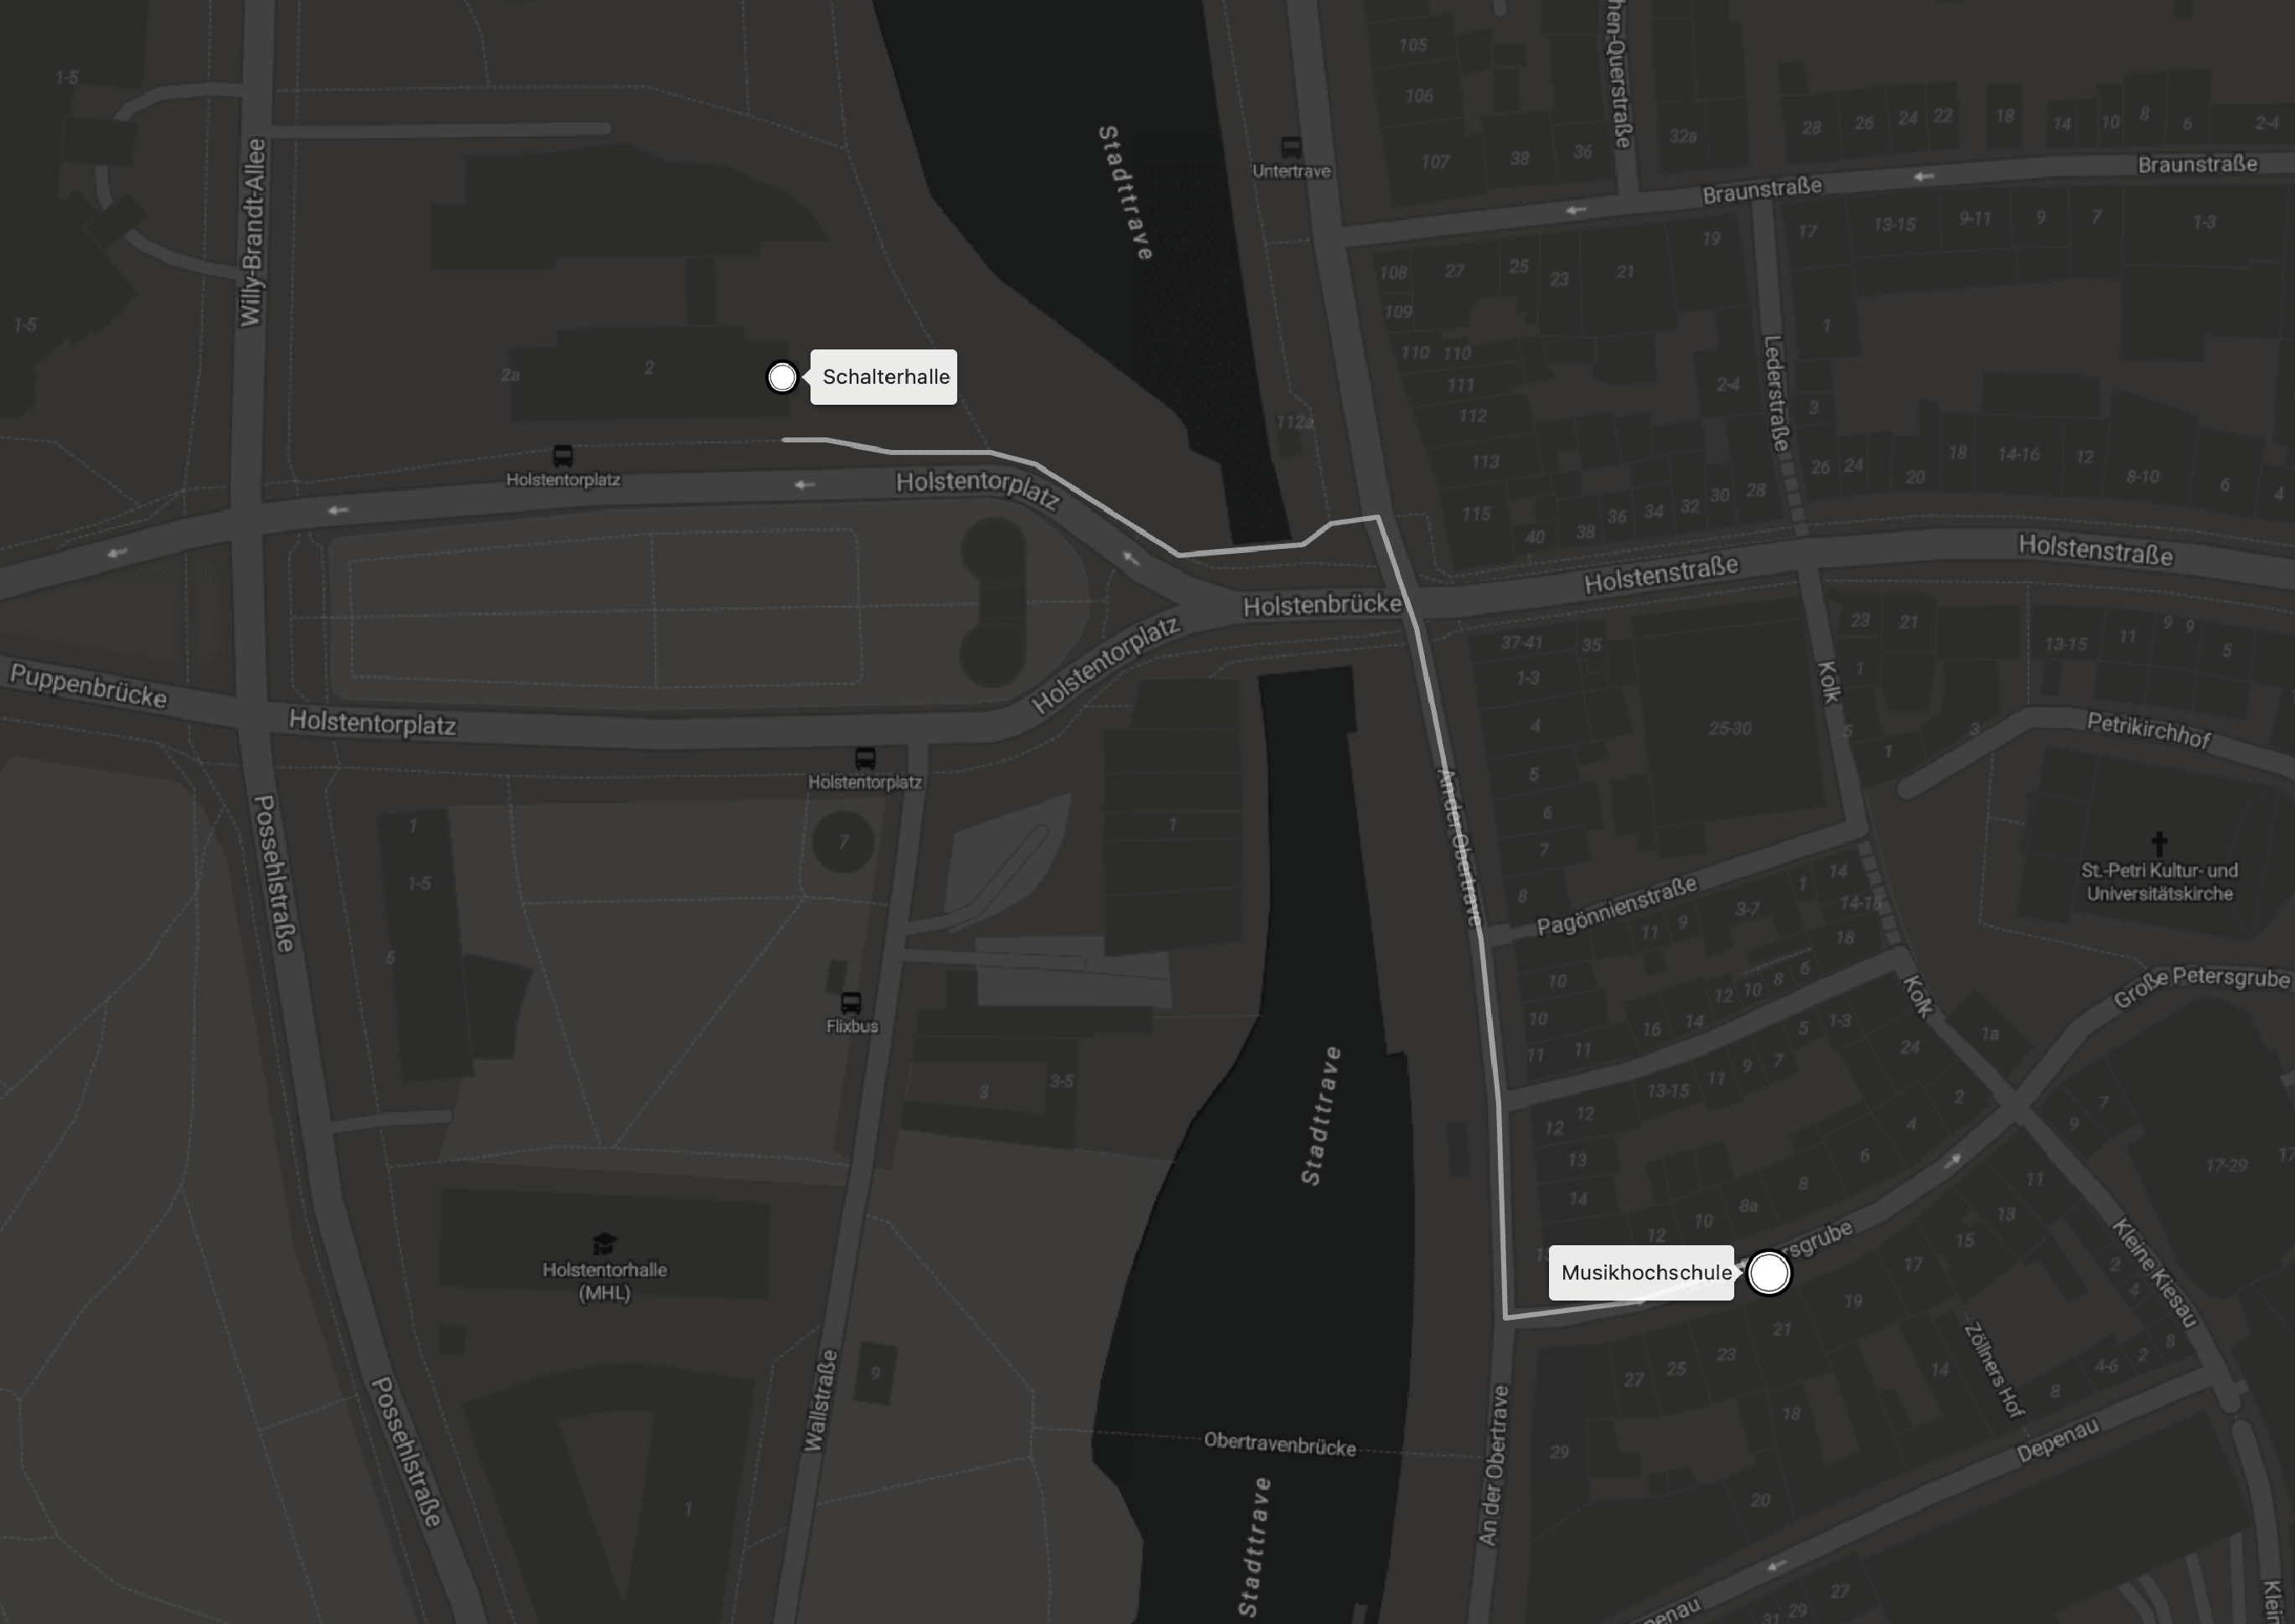
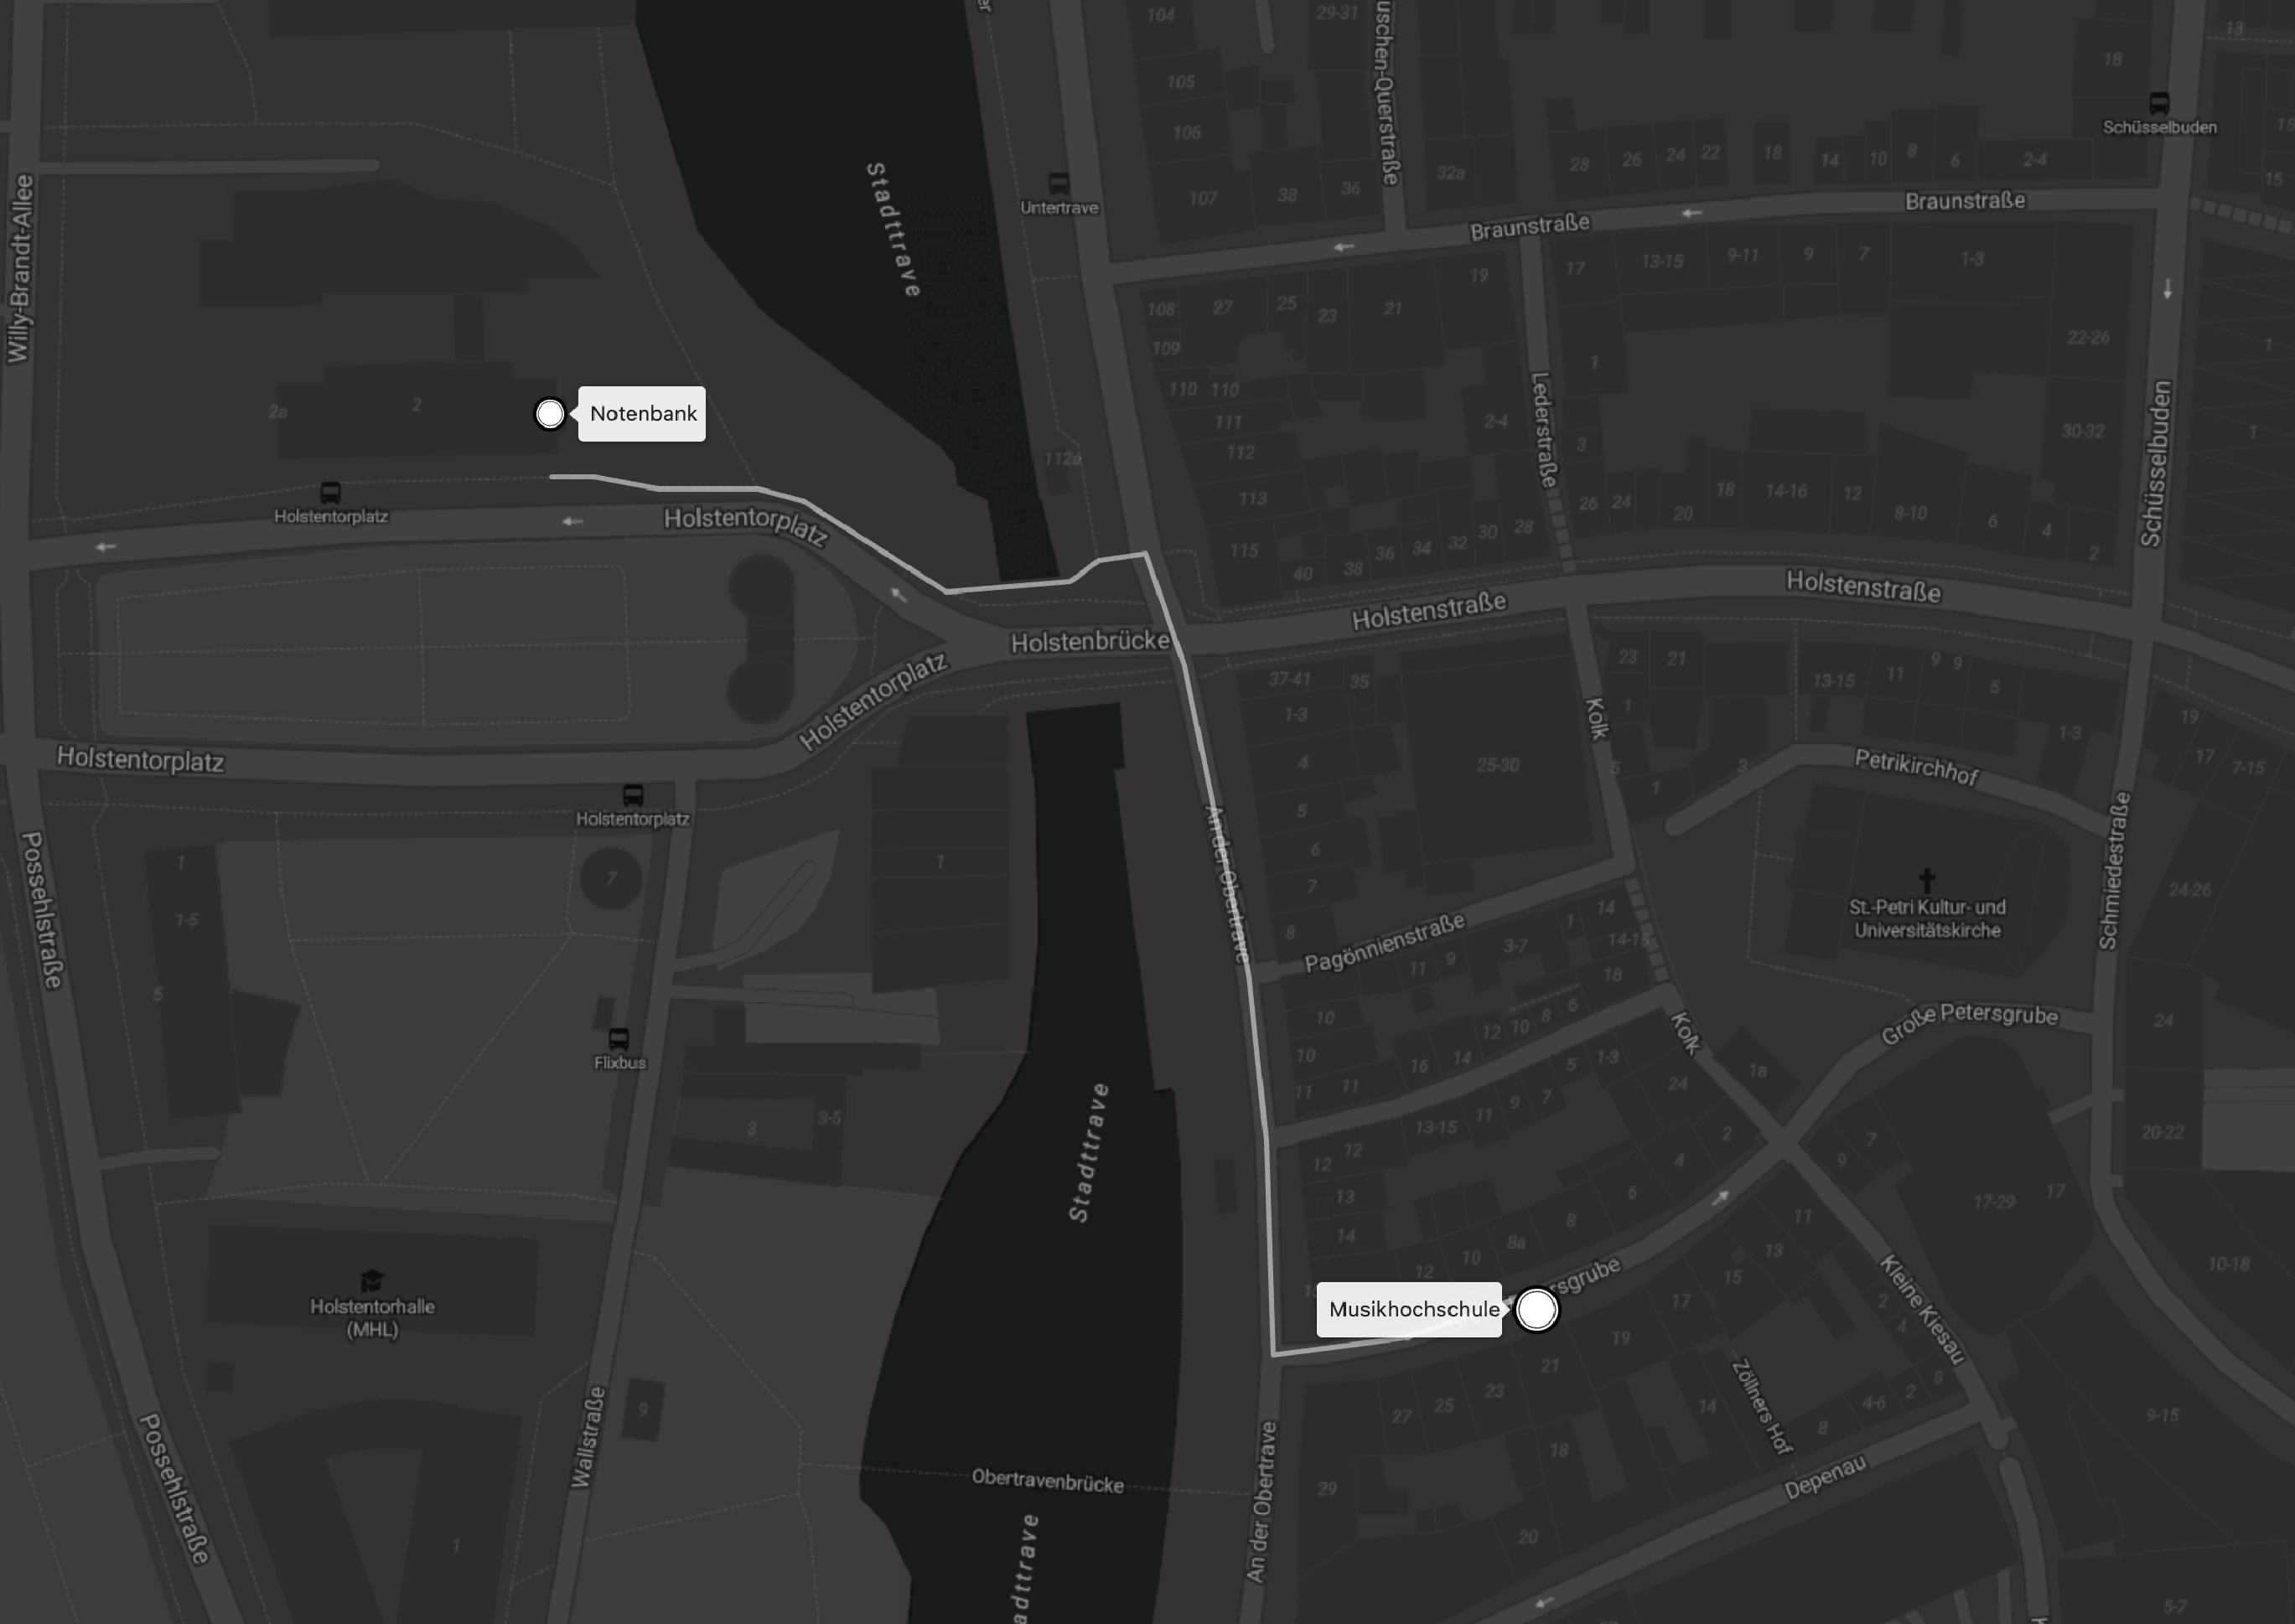
update

diff --git a/_site/wo/index.html b/_site/wo/index.html
@@ -44,12 +44,12 @@ script-src 'self';" />
   </div>
 </header>
 <main>
-      <h1 id="mo-06072026-1930-schalterhalle">Mo, 06.07.2026, 19:30, Schalterhalle</h1>
+      <h1 id="mo-06072026-1930-notenbank">Mo, 06.07.2026, 19:30, Notenbank</h1>
 
 <p>Holstentorplatz 2, Lübeck 23552</p>
 
 <div class="g2-wrap">
-	<img src="/mhl-abschlusskonzert/g2.png" alt="g2 image" class="g2-image" />
+	<img src="/mhl-abschlusskonzert/g2_small.png" alt="g2 image" class="g2-image" />
 </div>
 
   <br />  <!-- add line break if there is any content -->

diff --git a/index.md b/index.md
@@ -9,7 +9,6 @@ permalink: /
 ## Jarowoje Pole (2025-2026)
 *für Bassklarinette, Gusli, Schlagwerk und Elektronik*
 
-
 |:-|-|-|-|-:|
 |Clara Wigger||||*Erweiterte Bassklarinette*|
 |Maxi Treller||||*Präparierte Gusli*|
@@ -97,7 +96,7 @@ permalink: /
 *für Cyberware und ML-driven Spatialisation*
 
 |:-|-|-|-|-:|
-|Ilia Viazov||||*Cyborg*|
+|Ilia Viazov||||*Unmensch*|
 
 <br>
 